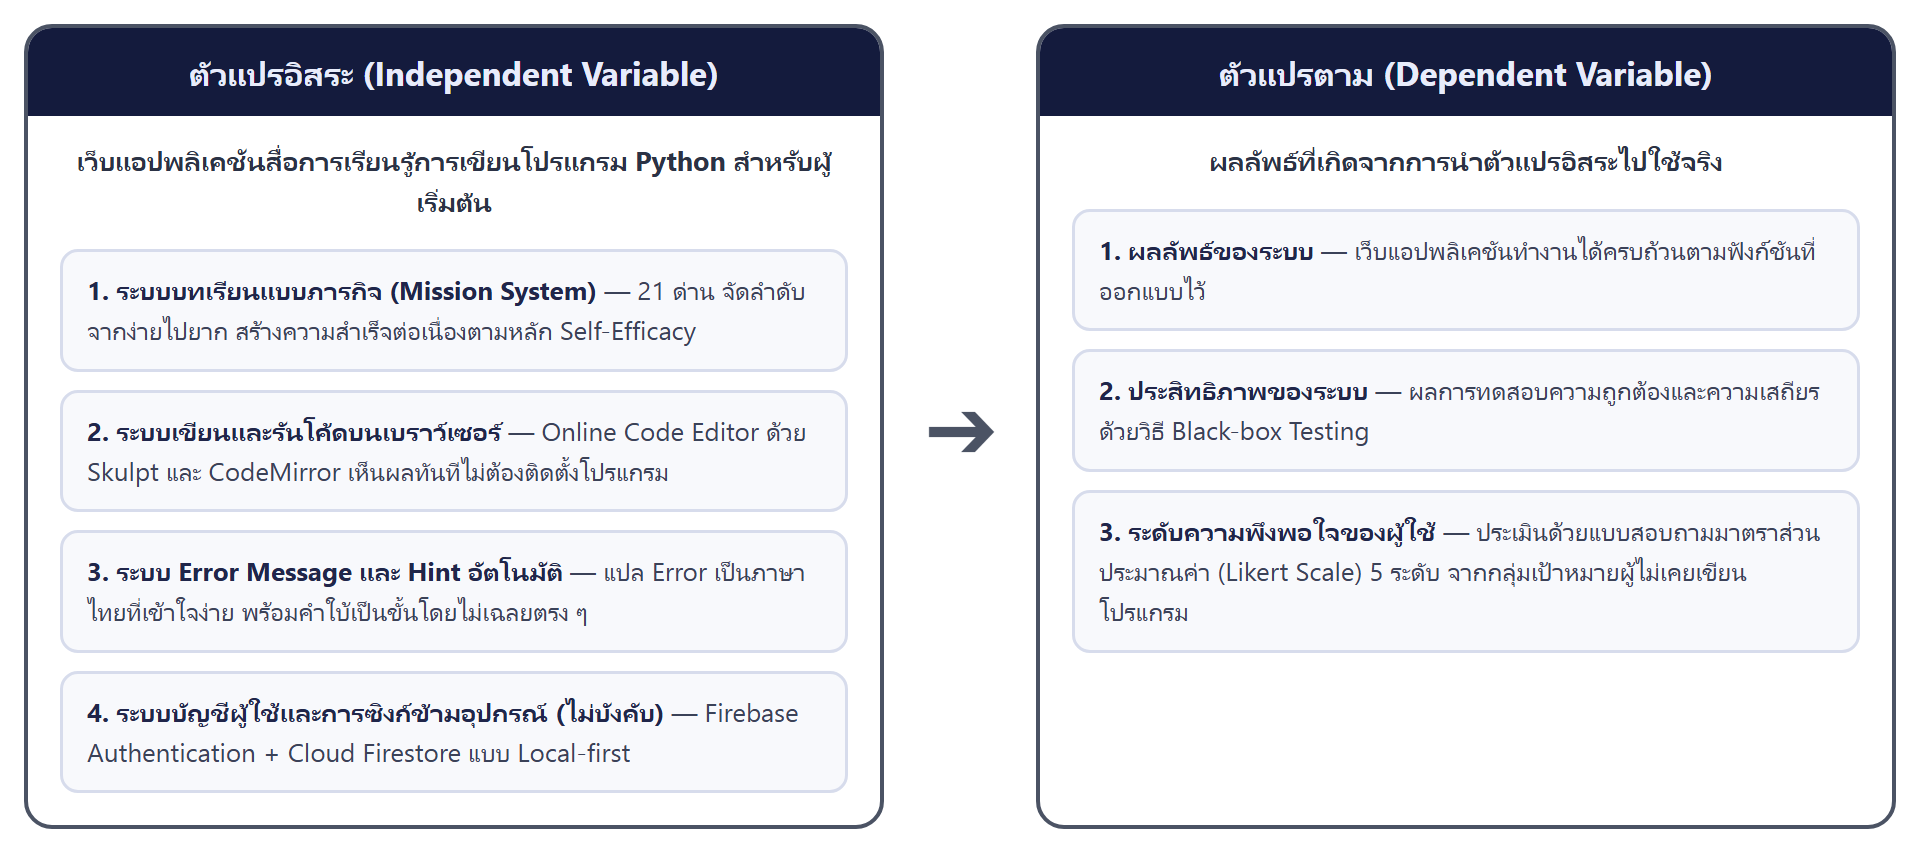
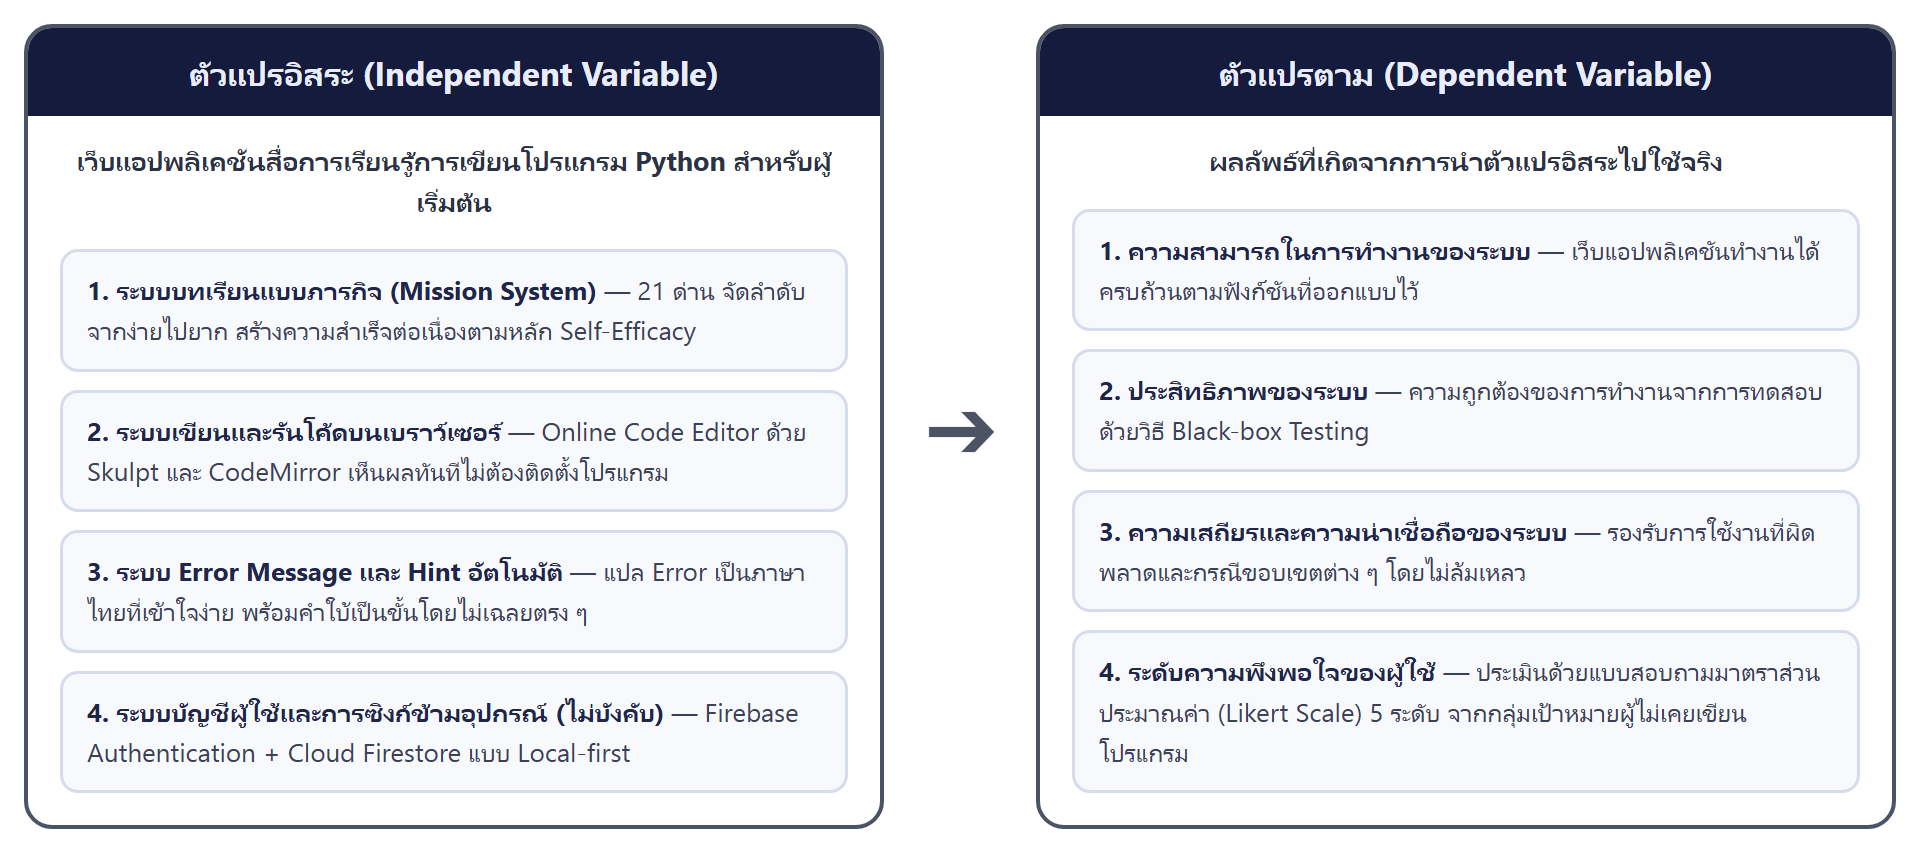
Balance chapter 1 variables: 4 independent to 4 dependent
The advisor requires sections 4 (ตัวแปรที่ศึกษา) and 9 (กรอบแนวคิด) to
list identical variables, and the independent/dependent counts to
match. Chapter 1 had 4 independent but only 2–3 dependent, and the two
sections listed the independent variables in a different order. Rewrite
both sections to the same four independent variables (mission system,
in-browser code editor, error/hint, optional account+sync) in the same
order, and four matching dependent variables (functional completeness,
efficiency, stability/reliability, user satisfaction). Update the
shared conceptual-framework figure and chapter 2's 7.4 narrative to
four dependent variables so every place the framework appears agrees.

diff --git a/figures/src/_fig-2-14-framework.html b/figures/src/_fig-2-14-framework.html
@@ -27,9 +27,10 @@
  <div class="box-h">ตัวแปรตาม (Dependent Variable)</div>
  <div class="box-sub">ผลลัพธ์ที่เกิดจากการนำตัวแปรอิสระไปใช้จริง</div>
  <div class="items">
-  <div class="item"><b>1. ผลลัพธ์ของระบบ</b> — เว็บแอปพลิเคชันทำงานได้ครบถ้วนตามฟังก์ชันที่ออกแบบไว้</div>
-  <div class="item"><b>2. ประสิทธิภาพของระบบ</b> — ผลการทดสอบความถูกต้องและความเสถียรด้วยวิธี Black-box Testing</div>
-  <div class="item"><b>3. ระดับความพึงพอใจของผู้ใช้</b> — ประเมินด้วยแบบสอบถามมาตราส่วนประมาณค่า (Likert Scale) 5 ระดับ จากกลุ่มเป้าหมายผู้ไม่เคยเขียนโปรแกรม</div>
+  <div class="item"><b>1. ความสามารถในการทำงานของระบบ</b> — เว็บแอปพลิเคชันทำงานได้ครบถ้วนตามฟังก์ชันที่ออกแบบไว้</div>
+  <div class="item"><b>2. ประสิทธิภาพของระบบ</b> — ความถูกต้องของการทำงานจากการทดสอบด้วยวิธี Black-box Testing</div>
+  <div class="item"><b>3. ความเสถียรและความน่าเชื่อถือของระบบ</b> — รองรับการใช้งานที่ผิดพลาดและกรณีขอบเขตต่าง ๆ โดยไม่ล้มเหลว</div>
+  <div class="item"><b>4. ระดับความพึงพอใจของผู้ใช้</b> — ประเมินด้วยแบบสอบถามมาตราส่วนประมาณค่า (Likert Scale) 5 ระดับ จากกลุ่มเป้าหมายผู้ไม่เคยเขียนโปรแกรม</div>
  </div>
 </div>
 </div></div></body></html>

diff --git a/บทที่ 1.md b/บทที่ 1.md
@@ -156,7 +156,7 @@
 
 4.1 ตัวแปรอิสระ คือ เว็บแอปพลิเคชันสื่อการเรียนรู้การเขียนโปรแกรม Python สำหรับผู้เริ่มต้น ที่ผู้จัดทำพัฒนาขึ้น ประกอบด้วยฟังก์ชันหลัก 4 ส่วน ได้แก่ (1) ระบบบทเรียนแบบภารกิจ (Mission System) (2) ระบบเขียนและรันโค้ด Python บนเบราว์เซอร์ (Online Code Editor ด้วย Skulpt) (3) ระบบแจ้งข้อผิดพลาดและคำแนะนำอัตโนมัติ (Error Message และ Hint) และ (4) ระบบบัญชีผู้ใช้และการซิงก์ข้อมูลข้ามอุปกรณ์แบบไม่บังคับ (Optional Account and Cloud Sync) เพื่อลดอุปสรรคในการเรียนรู้ของผู้ที่ไม่เคยเขียนโปรแกรมมาก่อน
 
-4.2 ตัวแปรตาม คือ ประสิทธิภาพของระบบ ซึ่งวัดจากผลการทดสอบด้วยวิธี Black-box Testing เพื่อตรวจสอบความถูกต้องและความเสถียรของฟังก์ชันต่าง ๆ และความพึงพอใจของผู้ใช้งาน ซึ่งประเมินด้วยแบบสอบถามมาตราส่วนประมาณค่า (Likert Scale) 5 ระดับ โดยกลุ่มเป้าหมายคือผู้ที่ไม่เคยมีประสบการณ์เขียนโปรแกรมมาก่อน (Beginner)
+4.2 ตัวแปรตาม คือ ผลลัพธ์ที่เกิดจากการนำตัวแปรอิสระไปใช้จริง ประกอบด้วย 4 ด้าน ได้แก่ (1) ความสามารถในการทำงานของระบบ ซึ่งระบบต้องทำงานได้ครบถ้วนตามฟังก์ชันที่ออกแบบไว้ (2) ประสิทธิภาพของระบบ ซึ่งวัดจากความถูกต้องของการทำงานด้วยวิธี Black-box Testing โดยไม่พิจารณาโครงสร้างโค้ดภายใน (3) ความเสถียรและความน่าเชื่อถือของระบบ ซึ่งวัดจากความสามารถในการรองรับการใช้งานที่ผิดพลาดและกรณีขอบเขตต่าง ๆ โดยไม่ล้มเหลว และ (4) ระดับความพึงพอใจของผู้ใช้ ซึ่งประเมินด้วยแบบสอบถามมาตราส่วนประมาณค่า (Likert Scale) 5 ระดับ จากกลุ่มเป้าหมายที่ไม่เคยมีประสบการณ์เขียนโปรแกรมมาก่อน (Beginner)
 
 ## 5. ประโยชน์ที่คาดว่าจะได้รับ
 
@@ -200,18 +200,20 @@
 
 ### 9.1 ตัวแปรอิสระ/ปัจจัยนวัตกรรม ในเว็บแอปพลิเคชันสื่อการเรียนรู้การเขียนโปรแกรม Python สำหรับผู้เริ่มต้น ประกอบด้วย
 
-9.1.1 ฟังก์ชันระบบ Error Message & Hint อัตโนมัติ — ระบบแปลข้อความ Error ดิบจากตัวแปลภาษา Skulpt ให้เป็นภาษาไทยที่เข้าใจง่าย พร้อมคำแนะนำการแก้ไข ช่วยลดความสับสนและความท้อแท้ของผู้เรียนที่ไม่เคยเขียนโปรแกรมมาก่อน
+9.1.1 ฟังก์ชันระบบบทเรียนแบบภารกิจ (Mission System) — ระบบจัดลำดับเนื้อหาบทเรียนเป็นภารกิจย่อยตามระดับความยาก ให้ผู้เรียนฝึกปฏิบัติทีละขั้น สร้างความสำเร็จต่อเนื่องตามหลัก Self-Efficacy
 
 9.1.2 ฟังก์ชัน Online Python Code Editor (Skulpt) — ระบบเขียนและรันโค้ด Python ได้ทันทีบนเบราว์เซอร์โดยไม่ต้องติดตั้งโปรแกรมเพิ่มเติม ช่วยให้ผู้เรียนเห็นผลลัพธ์การเขียนโค้ดได้แบบ Real-time
 
-9.1.3 ฟังก์ชันระบบบทเรียนแบบภารกิจ (Mission System) — ระบบจัดลำดับเนื้อหาบทเรียนเป็นภารกิจย่อยตามระดับความยาก ให้ผู้เรียนฝึกปฏิบัติทีละขั้น สร้างความสำเร็จต่อเนื่องตามหลัก Self-Efficacy
+9.1.3 ฟังก์ชันระบบ Error Message & Hint อัตโนมัติ — ระบบแปลข้อความ Error ดิบจากตัวแปลภาษา Skulpt ให้เป็นภาษาไทยที่เข้าใจง่าย พร้อมคำแนะนำการแก้ไข ช่วยลดความสับสนและความท้อแท้ของผู้เรียนที่ไม่เคยเขียนโปรแกรมมาก่อน
 
 9.1.4 ฟังก์ชันระบบบัญชีผู้ใช้และการซิงก์ข้อมูลข้ามอุปกรณ์แบบไม่บังคับ (Optional Account and Cloud Sync) — ระบบเข้าสู่ระบบผ่าน Firebase Authentication ที่ผู้เรียนเลือกใช้ได้เอง เพื่อให้ความก้าวหน้าในการเรียนติดตามตัวผู้เรียนไปยังอุปกรณ์อื่นได้ โดยไม่กระทบผู้เรียนที่ไม่ต้องการสมัครสมาชิก
 
 ### 9.2 ตัวแปรตาม/ผลลัพธ์ที่คาดว่าจะเกิดขึ้นจากเว็บแอปพลิเคชันสื่อการเรียนรู้การเขียนโปรแกรม Python สำหรับผู้เริ่มต้น ประกอบด้วย
 
-9.2.1 ผลลัพธ์ของระบบ — ความสามารถของเว็บแอปพลิเคชันในการทำงานได้ครบถ้วนตามฟังก์ชันที่ออกแบบไว้ในหัวข้อ 9.1
+9.2.1 ความสามารถในการทำงานของระบบ (ผลลัพธ์ของระบบ) — ความสามารถของเว็บแอปพลิเคชันในการทำงานได้ครบถ้วนตามฟังก์ชันที่ออกแบบไว้ในหัวข้อ 9.1
 
-9.2.2 ประสิทธิภาพของระบบ (Black-box Testing) — ผลการทดสอบความถูกต้องและความเสถียรของระบบโดยไม่พิจารณาโครงสร้างโค้ดภายใน ทดสอบโดยผู้เชี่ยวชาญและผู้ใช้งานจริง
+9.2.2 ประสิทธิภาพของระบบ (Black-box Testing) — ผลการทดสอบความถูกต้องของการทำงานของระบบโดยไม่พิจารณาโครงสร้างโค้ดภายใน
 
-9.2.3 ระดับความพึงพอใจของผู้ใช้ (Likert 5 ระดับ) — ความพึงพอใจของกลุ่มเป้าหมาย (ผู้ไม่เคยเขียนโปรแกรมมาก่อน) ที่มีต่อการใช้งานเว็บแอปพลิเคชัน ประเมินผ่านแบบสอบถามมาตราส่วนประมาณค่า 5 ระดับ
+9.2.3 ความเสถียรและความน่าเชื่อถือของระบบ — ความสามารถในการรองรับการใช้งานที่ผิดพลาดและกรณีขอบเขตต่าง ๆ โดยไม่ล้มเหลว ทดสอบด้วยการจำลองความผิดพลาดจริงของผู้เริ่มต้นและกรณีขอบเขตของระบบ
+
+9.2.4 ระดับความพึงพอใจของผู้ใช้ (Likert 5 ระดับ) — ความพึงพอใจของกลุ่มเป้าหมาย (ผู้ไม่เคยเขียนโปรแกรมมาก่อน) ที่มีต่อการใช้งานเว็บแอปพลิเคชัน ประเมินผ่านแบบสอบถามมาตราส่วนประมาณค่า 5 ระดับ
